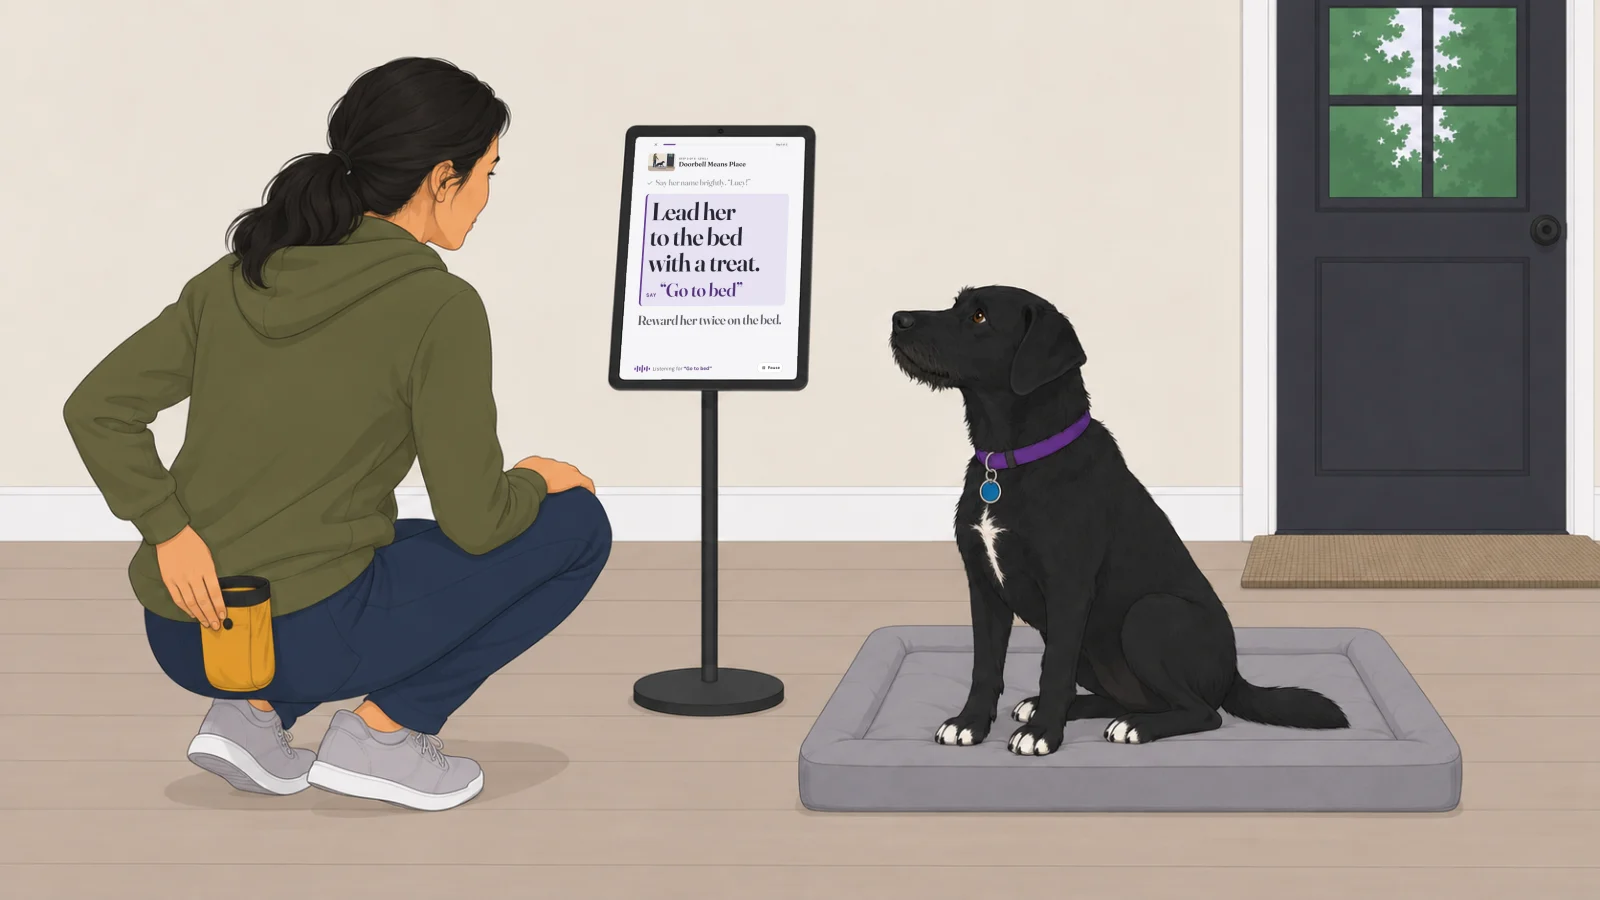
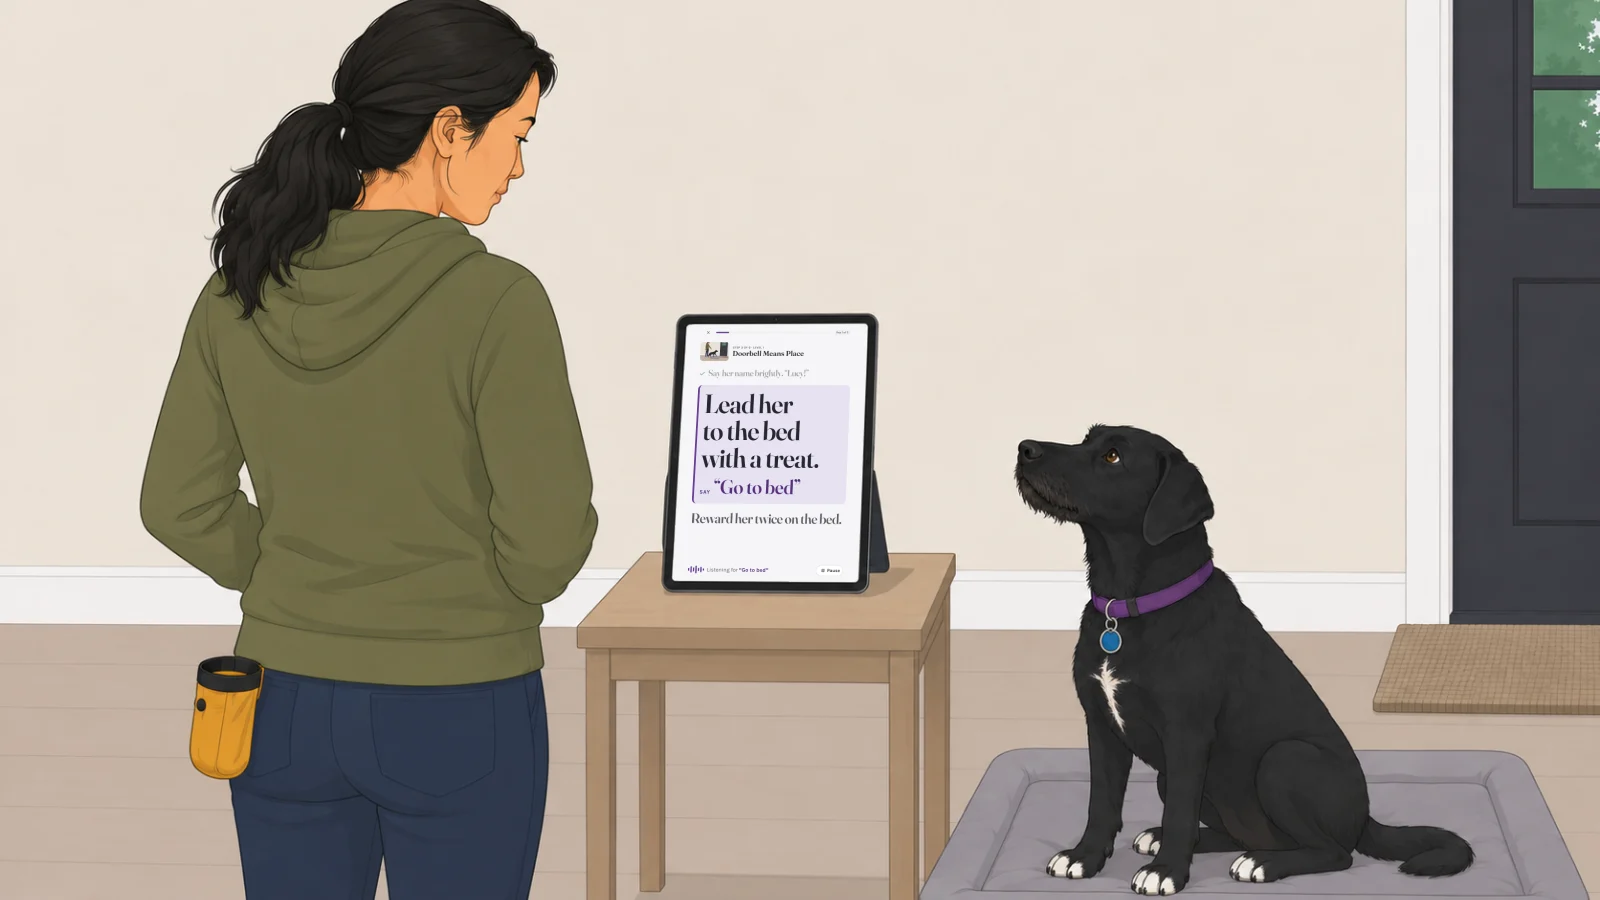
Lucy Learns's teleprompter picture is redrawn with the handler standing: she reads the tablet from a step away with her hands in her hoodie pocket, and the tablet stands in its folding case on a plain oak side table instead of a floor stand, with Lucy on her bed beside it looking up at her
The crouch, the floor stand and a left hand drawn as a right one all go. Two takes in one ChatGPT chat against the same five references set the pose and the framing; asking for the hands to be redrawn changed nothing, so they are in her pocket rather than drawn. The screen is the same mockup of the live app's step screen, set into this tablet's bezel by its four corners. Still 1600x900, so ?v=3 -> ?v=4; the alt text and the caption ("propped on a table so your hands stay free") follow the picture. resting.mjs and states.mjs on the page read 165 and 74 across 85, as on main.

diff --git a/case-study/lucy-learns.html b/case-study/lucy-learns.html
@@ -435,9 +435,9 @@
              Replace it with a capture from scripts/lucy.mjs once the screen
              exists. -->
         <figure class="build-shot">
-          <img src="../img/lucy/prompter-sketch.webp?v=3" width="1600" height="900" loading="lazy" decoding="async"
-               alt="The handler crouches on the hallway floor, seen from behind, reading a tablet that stands upright on a floor stand in front of her. Her hands are free, one on her knee and one at her treat pouch. The tablet shows the app as a teleprompter: the step just done, &ldquo;Say her name brightly. &lsquo;Lucy!&rsquo;&rdquo;, in gray; the current step, &ldquo;Lead her to the bed with a treat. Say &lsquo;Go to bed,&rsquo;&rdquo; in large type on a violet band; the next, &ldquo;Reward her twice on the bed&rdquo;; and &ldquo;Listening for &lsquo;Go to bed&rsquo;&rdquo; at the foot. Lucy sits on her gray bed beside the stand, looking at the handler." />
-          <figcaption>A mockup of the next version, not built yet: the steps as a script in type you can read from across the room, on a stand so your hands stay free, with the line it&rsquo;s listening for marked.</figcaption>
+          <img src="../img/lucy/prompter-sketch.webp?v=4" width="1600" height="900" loading="lazy" decoding="async"
+               alt="The handler stands in the hallway, seen from behind with her hands in her hoodie pocket, reading a tablet propped upright in its case on a small side table in front of her. The tablet shows the app as a teleprompter: the step just done, &ldquo;Say her name brightly. &lsquo;Lucy!&rsquo;&rdquo;, in gray; the current step, &ldquo;Lead her to the bed with a treat. Say &lsquo;Go to bed,&rsquo;&rdquo; in large type on a violet band; the next, &ldquo;Reward her twice on the bed&rdquo;; and &ldquo;Listening for &lsquo;Go to bed&rsquo;&rdquo; at the foot. Lucy sits on her gray bed beside the table, looking up at the handler." />
+          <figcaption>A mockup of the next version, not built yet: the steps as a script in type you can read from across the room, propped on a table so your hands stay free, with the line it&rsquo;s listening for marked.</figcaption>
         </figure>
         <p>It isn&rsquo;t built, and I don&rsquo;t know yet whether it holds up. Listening comes back in a different job, and it still needs a microphone in a room with a dog in it.</p>
         <p>What the three have in common: the hallway found every problem, and each fix changed the approach instead of polishing the one before.</p>
